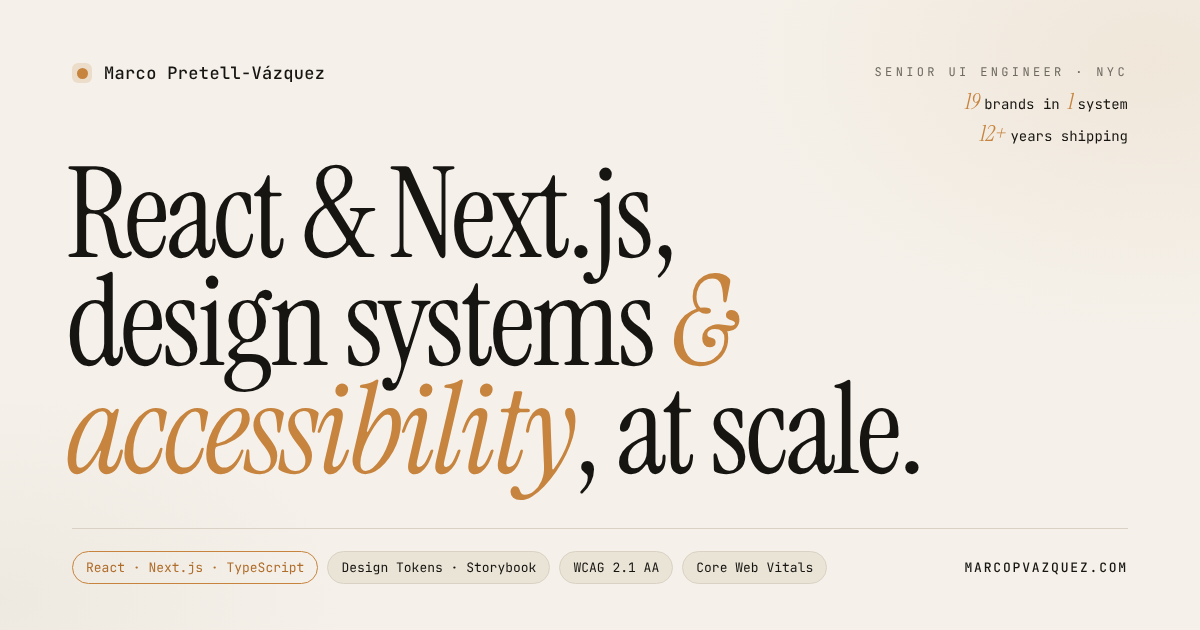
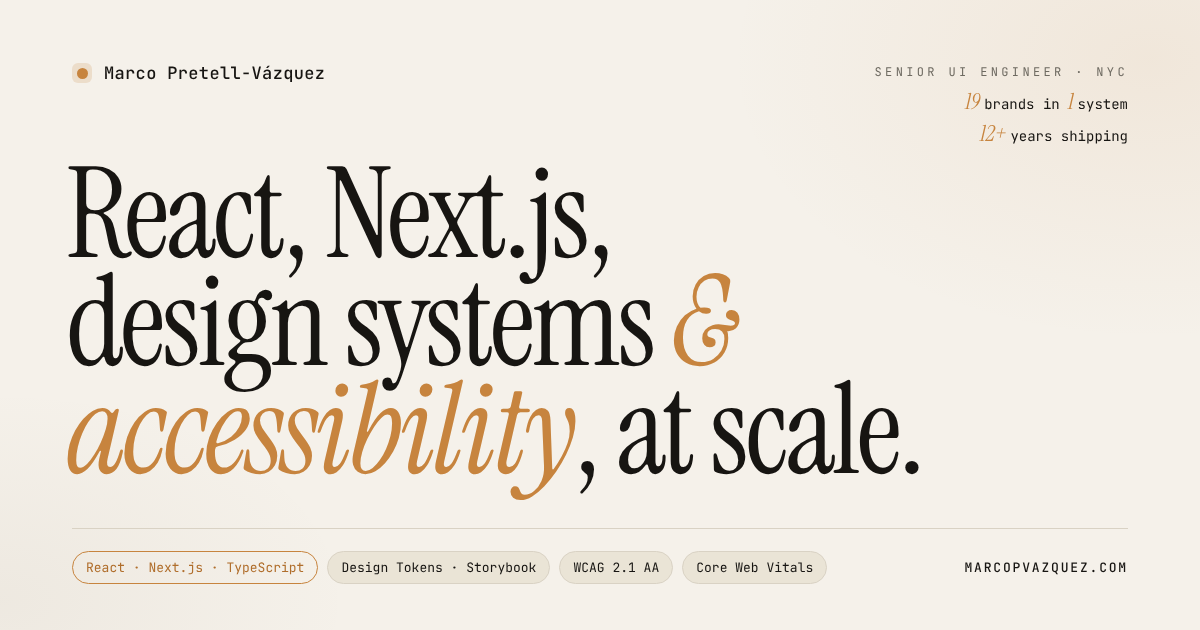
Update title

Changed region(s): [[0.2467, 0.2413, 0.5858, 0.4524]]

diff --git a/index.html b/index.html
@@ -18,10 +18,10 @@
 <meta property="og:title" content="Marco Pretell-Vázquez · Senior UI Engineer · React, Next.js, Design Systems &amp; Accessibility" />
 <meta property="og:description" content="Senior UI Engineer in NYC. React, Next.js, design systems, and accessibility on high-traffic retail and enterprise SaaS platforms." />
 <meta property="og:url" content="https://www.marcopvazquez.com/" />
-<meta property="og:image" content="https://www.marcopvazquez.com/assets/og-card.png?v=2" />
+<meta property="og:image" content="https://www.marcopvazquez.com/assets/og-card.png?v=3" />
 <meta property="og:image:width" content="1200" />
 <meta property="og:image:height" content="630" />
-<meta property="og:image:alt" content="Marco Pretell-Vázquez. Senior UI Engineer. React and Next.js, design systems and accessibility, at scale." />
+<meta property="og:image:alt" content="Marco Pretell-Vázquez. Senior UI Engineer. React, Next.js, design systems and accessibility, at scale." />
 <meta property="og:locale" content="en_US" />
 
 <!-- Twitter -->
@@ -30,8 +30,8 @@
 <meta name="twitter:creator" content="@marcopvazquez" />
 <meta name="twitter:title" content="Marco Pretell-Vázquez · Senior UI Engineer" />
 <meta name="twitter:description" content="Senior UI Engineer in NYC. React, Next.js, design systems, and accessibility on high-traffic retail and enterprise SaaS platforms." />
-<meta name="twitter:image" content="https://www.marcopvazquez.com/assets/og-card.png?v=2" />
-<meta name="twitter:image:alt" content="Marco Pretell-Vázquez. Senior UI Engineer. React and Next.js, design systems and accessibility, at scale." />
+<meta name="twitter:image" content="https://www.marcopvazquez.com/assets/og-card.png?v=3" />
+<meta name="twitter:image:alt" content="Marco Pretell-Vázquez. Senior UI Engineer. React, Next.js, design systems and accessibility, at scale." />
 
 <!-- Structured data: Person -->
 <script type="application/ld+json">
@@ -42,7 +42,7 @@
   "jobTitle": "Senior UI Engineer",
   "description": "Senior UI Engineer specializing in React, Next.js, design systems, and accessibility (WCAG 2.1 AA).",
   "url": "https://www.marcopvazquez.com/",
-  "image": "https://www.marcopvazquez.com/assets/og-card.png?v=2",
+  "image": "https://www.marcopvazquez.com/assets/og-card.png?v=3",
   "sameAs": [
     "https://www.linkedin.com/in/marcopvazquez",
     "https://github.com/mpvazquez",
@@ -166,7 +166,7 @@
     </div>
 
     <h1>
-      <span class="line"><span>React &amp; Next.js,</span></span>
+      <span class="line"><span>React, Next.js,</span></span>
       <span class="line"><span>design systems <em class="amp">&amp;</em></span></span>
       <span class="line"><span><em class="amp">accessibility</em>, at scale.</span></span>
     </h1>
@@ -185,7 +185,7 @@
         </div>
         <div class="hero-side-row">
           <div class="label">Focus</div>
-          <div class="value">React &amp; Next.js · Design Systems · Accessibility (WCAG 2.1 AA)
+          <div class="value">React, Next.js, Design Systems, Accessibility (WCAG 2.1 AA)
           </div>
         </div>
         <div class="hero-side-row">
